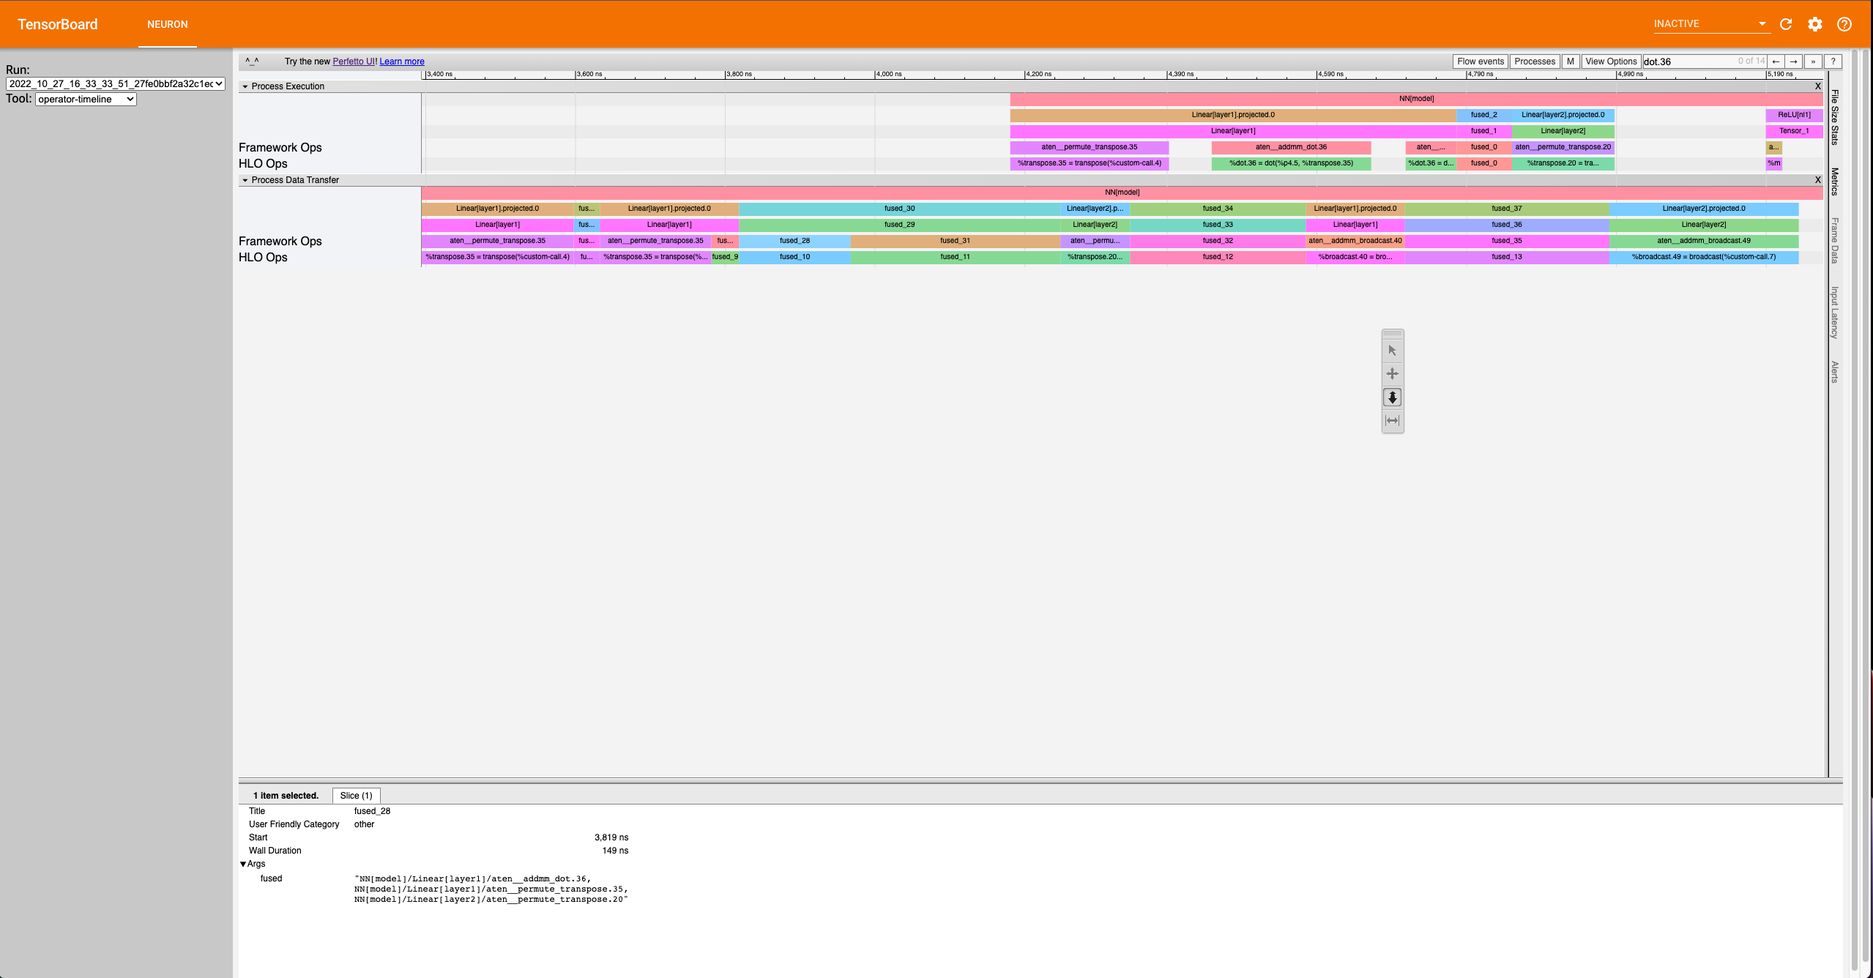
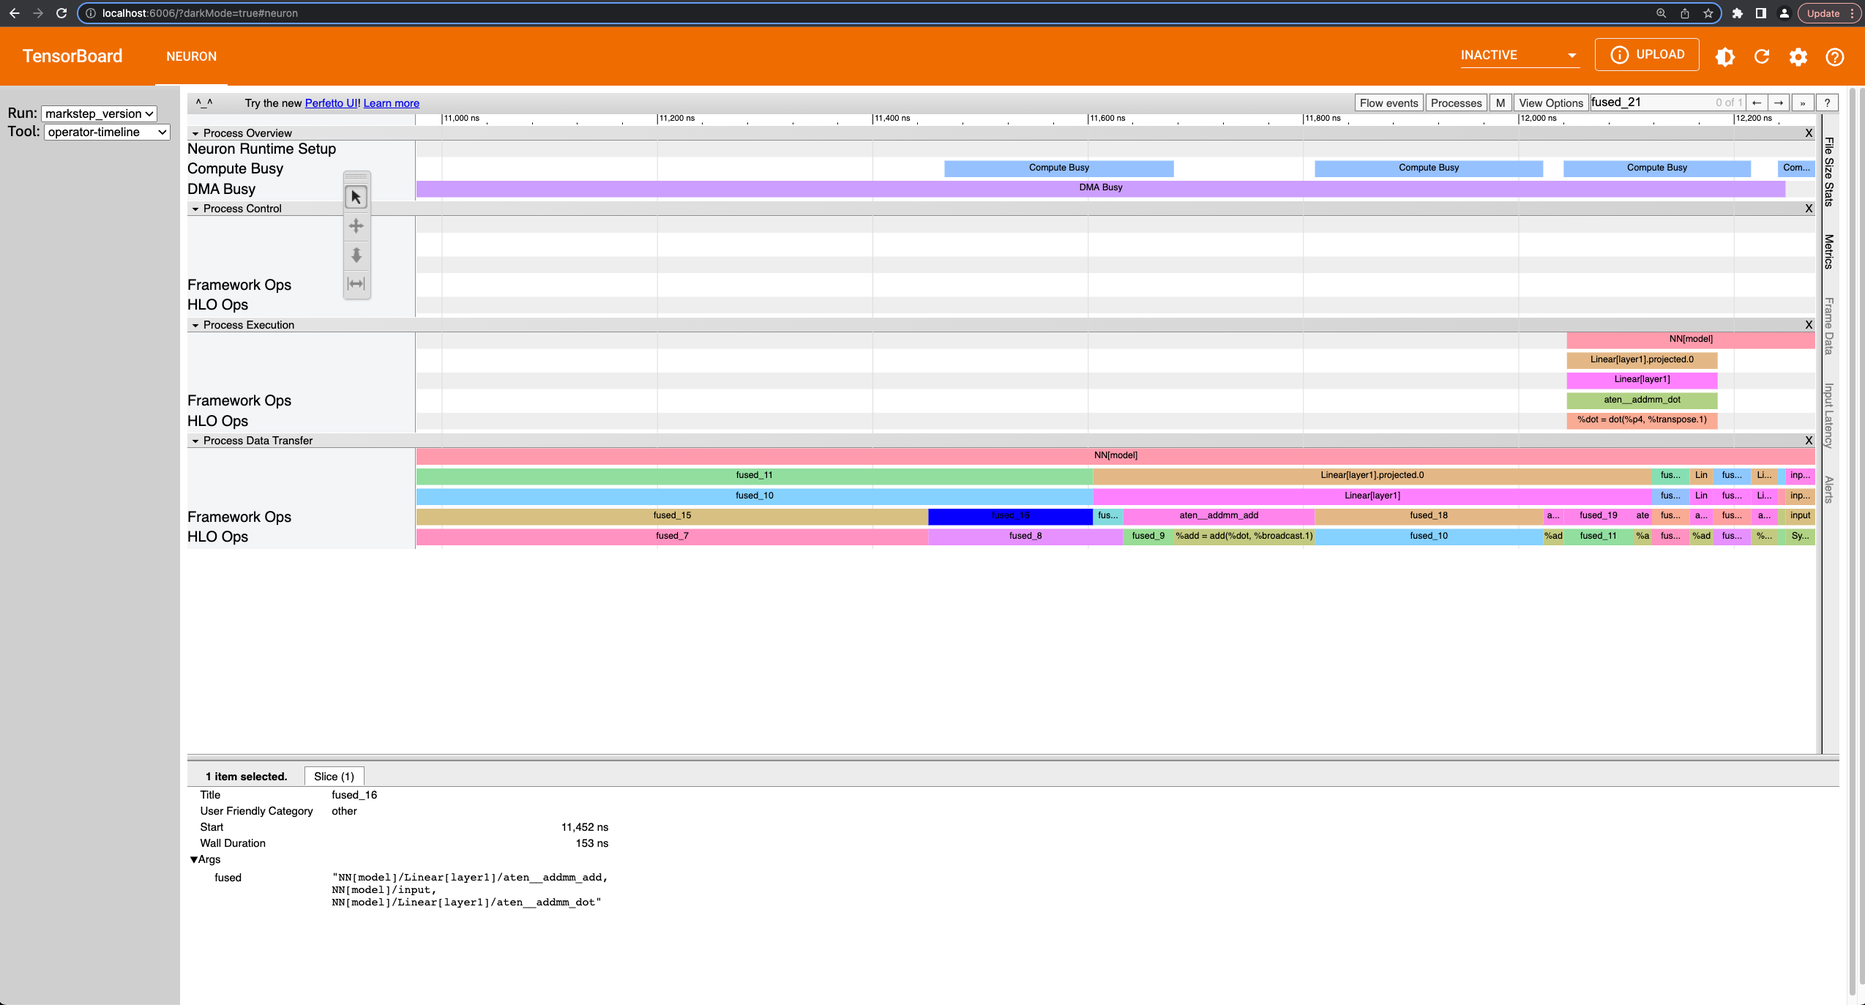
Neuron TensorBoard Profiler update
* Updated Tutorial for Profiling with Tensorboard

---------

diff --git a/tools/tutorials/torch-neuronx-profiling-with-tb.rst b/tools/tutorials/torch-neuronx-profiling-with-tb.rst
@@ -42,7 +42,7 @@ Environment
 
 
 
-Understanding the Operator Level Trace
+Part 1: Operator Level Trace for ``xm.markstep()`` workflow
 --------------------------------------
 
 Goal
@@ -157,49 +157,39 @@ Initial Output & Compilation Success
 
 ::
 
-   2022-10-12 19:02:02.176770: E tensorflow/core/framework/op_kernel.cc:1676] OpKernel ('op: "TPURoundRobin" device_type: "CPU"') for unknown op: TPURoundRobin
-   2022-10-12 19:02:02.177579: E tensorflow/core/framework/op_kernel.cc:1676] OpKernel ('op: "TpuHandleToProtoKey" device_type: "CPU"') for unknown op: TpuHandleToProtoKey
-   torch_neuron: The environment variable 'XLA_IR_DEBUG' is not set! Set this to '1' before your model is compiled to include model information for profiling! Environment variable will be set (and cleared) in this profile scope
-   torch_neuron: The environment variable 'XLA_HLO_DEBUG' is not set! Set this to '1' before your model is compiled to include model information for profiling! Environment variable will be set (and cleared) in this profile scope
-   Starting to trace for 10000 ms. Remaining attempt(s): 2
-   2022-10-12 19:02:02.259487: W tensorflow/core/profiler/lib/profiler_session.cc:105] Profiling is late by 402863 nanoseconds and will start immediately.
-   2022-10-12 19:02:02.259528: W tensorflow/libtpu/profile_manager.cc:310] ProfileManager::start: Environment variable NEURON_PROFILE not set - not enabling Neuron device profiling
-   2022-10-12 19:02:02.259541: W tensorflow/libtpu/profile_manager.cc:316] ProfileManager::start: Environment variable NEURON_PROFILE_TYPE not set - not enabling Neuron device profiling
-   2022-10-12 19:02:02.000325: INFO ||NCC_WRAPPER||: No candidate found under compiler_cache/neuron-compile-cache/USER_neuroncc-2.0.0.4226a0+8bf37708b/MODULE_5452102422278823855.
-   2022-10-12 19:02:02.000325: INFO ||NCC_WRAPPER||: Cache dir for the neff: compiler_cache/neuron-compile-cache/USER_neuroncc-2.0.0.4226a0+8bf37708b/MODULE_5452102422278823855/MODULE_0_SyncTensorsGraph.53_5452102422278823855_ip-172-31-33-242-2131b830-24512-5eadb072703d9/b6c38ec4-f890-4ab9-97e2-e6b7d2d78f65
-   .
-   Compiler status PASS
-   2022-10-12 19:02:05.000196: INFO ||NCC_WRAPPER||: Exiting with a successfully compiled graph
-
-.. note::
-
-   The warnings about the ``XLA_IR_DEBUG`` and ``XLA_HLO_DEBUG``
-   env vars not being set can be ignored for the most part. This warning
-   only comes into play when compiling the model for Neuron outside of the
-   profiler context manager.
+   0%   10   20   30   40   50   60   70   80   90   100%
+   |----|----|----|----|----|----|----|----|----|----|
+   ***************************************************
+   Analyzing dependencies of Block1
+   0%   10   20   30   40   50   60   70   80   90   100%
+   |----|----|----|----|----|----|----|----|----|----|
+   ***************************************************
+   Analyzing dependencies of Block1
+   0%   10   20   30   40   50   60   70   80   90   100%
+   |----|----|----|----|----|----|----|----|----|----|
+   ***************************************************
+   Dependency reduction of sg0000
+   0%   10   20   30   40   50   60   70   80   90   100%``
+   |----|----|----|----|----|----|----|----|----|----|
+   ***************************************************
 
 Processing the Neuron Profiler Traces
 
 ::
 
-   torch_neuron: Waiting for xplane files ...
-   torch_neuron: Decoding xplane files from profiler
+   torch_neuron: Waiting for XLA profile completion ...
    torch_neuron: translate_xplane: Processing plane: '/host:CPU'
-   torch_neuron: XLA decode - Read filename 2022_10_26_18_00_39
-   torch_neuron: XLA decode - Read date parts ['2022', '10', '26', '18', '00', '39']
-   torch_neuron: XLA decode - Read start date 2022-10-26 18:00:39 from directory stamp
-   torch_neuron: translate_xplane: Processing plane: '/host:Neuron-runtime:profile//822ac0425c2b4163_1/model10001/node5/plugins/neuron/1666807250/neuron_op_timeline_split.json'
-   torch_neuron: translate_xplane: Writing plane: '/host:Neuron-runtime:profile//822ac0425c2b4163_1/model10001/node5/plugins/neuron/1666807250/neuron_op_timeline_split.json' to 'temp_profiler_logs/822ac0425c2b4163_1/neuron_op_timeline_split.json'
-   torch_neuron: translate_xplane: Processing plane: '/host:Neuron-runtime:profile//822ac0425c2b4163_1/model10001/node5/plugins/neuron/1666807250/neuron_op_timeline.json'
-   torch_neuron: translate_xplane: Writing plane: '/host:Neuron-runtime:profile//822ac0425c2b4163_1/model10001/node5/plugins/neuron/1666807250/neuron_op_timeline.json' to 'temp_profiler_logs/822ac0425c2b4163_1/neuron_op_timeline.json'
-   torch_neuron: translate_xplane: Processing plane: '/host:Neuron-runtime:profile//822ac0425c2b4163_1/model10001/node5/plugins/neuron/1666807250/neuron_framework_op.json'
-   torch_neuron: translate_xplane: Writing plane: '/host:Neuron-runtime:profile//822ac0425c2b4163_1/model10001/node5/plugins/neuron/1666807250/neuron_framework_op.json' to 'temp_profiler_logs/822ac0425c2b4163_1/neuron_framework_op.json'
-   torch_neuron: translate_xplane: Processing plane: '/host:Neuron-runtime:profile//822ac0425c2b4163_1/model10001/node5/plugins/neuron/1666807250/neuron_hlo_op.json'
-   torch_neuron: translate_xplane: Writing plane: '/host:Neuron-runtime:profile//822ac0425c2b4163_1/model10001/node5/plugins/neuron/1666807250/neuron_hlo_op.json' to 'temp_profiler_logs/822ac0425c2b4163_1/neuron_hlo_op.json'
-   torch_neuron: Trace file: temp_profiler_logs/neuron_trace.json
-   torch_neuron: Translated JSON files: ['temp_profiler_logs/822ac0425c2b4163_1/neuron_op_timeline_split.json', 'temp_profiler_logs/822ac0425c2b4163_1/neuron_op_timeline.json', 'temp_profiler_logs/822ac0425c2b4163_1/neuron_framework_op.json', 'temp_profiler_logs/822ac0425c2b4163_1/neuron_hlo_op.json']
-   torch_neuron: Output processed JSON profiles
-   torch_neuron: Cleaning up temporary files
+   torch_neuron: XLA decode - Read filename 2023_04_28_00_54_04
+   torch_neuron: XLA decode - Read date parts ['2023', '04', '28', '00', '54', '04']
+   torch_neuron: XLA decode - Read start date 2023-04-28 00:54:04 from directory stamp
+   torch_neuron: translate_xplane: Processing plane: '/host:Neuron-runtime:profile//c1a992f0ea378f7a_1/model10001/node5/plugins/neuron/1682643254/neuron_op_timeline_split.json'
+   torch_neuron: translate_xplane: Writing plane: '/host:Neuron-runtime:profile//c1a992f0ea378f7a_1/model10001/node5/plugins/neuron/1682643254/neuron_op_timeline_split.json' to 'temp_profiler_logs/c1a992f0ea378f7a_1/neuron_op_timeline_split.json'
+   torch_neuron: translate_xplane: Processing plane: '/host:Neuron-runtime:profile//c1a992f0ea378f7a_1/model10001/node5/plugins/neuron/1682643254/neuron_op_timeline.json'
+   torch_neuron: translate_xplane: Writing plane: '/host:Neuron-runtime:profile//c1a992f0ea378f7a_1/model10001/node5/plugins/neuron/1682643254/neuron_op_timeline.json' to 'temp_profiler_logs/c1a992f0ea378f7a_1/neuron_op_timeline.json'
+   torch_neuron: translate_xplane: Processing plane: '/host:Neuron-runtime:profile//c1a992f0ea378f7a_1/model10001/node5/plugins/neuron/1682643254/neuron_hlo_op.json'
+   torch_neuron: translate_xplane: Writing plane: '/host:Neuron-runtime:profile//c1a992f0ea378f7a_1/model10001/node5/plugins/neuron/1682643254/neuron_hlo_op.json' to 'temp_profiler_logs/c1a992f0ea378f7a_1/neuron_hlo_op.json'
+   torch_neuron: translate_xplane: Processing plane: '/host:Neuron-runtime:profile//c1a992f0ea378f7a_1/model10001/node5/plugins/neuron/1682643254/neuron_framework_op.json'
+   torch_neuron: translate_xplane: Writing plane: '/host:Neuron-runtime:profile//c1a992f0ea378f7a_1/model10001/node5/plugins/neuron/1682643254/neuron_framework_op.json' to 'temp_profiler_logs/c1a992f0ea378f7a_1/neuron_framework_op.json'
 
 Printing output from CPU model and Trn1 Model:
 
@@ -253,7 +243,7 @@ Operator HLO View
 
 This view contains a pie-chart displaying the
 proportional execution time for each of the model operators on the hlo level for a
-neuron device. The list of operators is shown in the bottom along with
+Neuron device. The list of operators is shown in the bottom along with
 other details about number of occurrences, execution time and neuron
 device and core.
 
@@ -268,12 +258,12 @@ Operator Trace View
 |tensorboard-operator-trace-view|
 
 
-.. _execution-vs-data-transfer:
+.. _trace_view_sections:
 
-Execution vs. Data Transfer
+Trace View Sections
 ^^^^^^^^^^^^^^^^^^^^^^^^^^^
 
-Notice there are two sections: Process Execution and Process Data
+Notice there are four sections: Process Overview, Control, Execution, and Data
 Transfer. In each section there are more subdivisions with each layer
 representing a certain level of abstraction. Also important to note that
 the timescale axis is aligned between the two sections. This is
@@ -293,9 +283,9 @@ dashboard, some information will appear.
 |tensorboard-operator-trace-fusion-simple|
 
 Notice in the above example the fusion operator is fusing the operator before and
-after itself on the timeline. More specifically, ``fused_4`` is a fusion
-of ``NN_1/input`` and
-``NN[model]/Linear[layer1]/aten__permute_transpose.35``. These kinds of
+after itself on the timeline. More specifically, ``fused_3`` is a fusion
+of ``NN[model]/input`` and
+``NN[model]/ReLU[nl1]/Tensor_1/aten__relu_maximum``. These kinds of
 fusions occur when the ``neuronx-cc`` compiler has found an optimization
 relating to the two operators. Most often this would be the execution of
 the operators on separate compute engines or another form of parallelism.
@@ -303,32 +293,15 @@ the operators on separate compute engines or another form of parallelism.
 **Complex Case:** Most often, the order of fusion operators can get a
 little complicated or contain "hidden" information. For the first example,
 let’s zoom into the data transfer section such that we see the timescale range 
-from 3400 ns. to 5190 ns. It should look similar to below:
+from 6000 ns. to 6600 ns. It should look similar to below:
 
 |tensorboard-operator-trace-fusion-complex|
 
-Looking at ``fused_28`` (3819 ns.) we see it's surrounded by other fused operators.
-Furthermore, the ``fused_28`` operator fuses more than two operators. ``NN[model]/Linear[layer1]/aten__addmm_dot.36``,
-``NN[model]/Linear[layer1]/aten__permute_transpose.35``, and ``NN[model]/Linear[layer2]/aten__permute_transpose.20``.
-Looking along the Framework Ops, we will find the transpose operators but not the ``aten__addmm_dot.36`` operator. This can occur
-because there is a complete overlap of operators. In other words, while there is a data load operation happening for
-the transpose operators, a data load operation also occurs for the dot operator.
-
-This also explains how fusion operators can be consecutive. From this, a couple of complexities arise regarding the
-"Start" time of these operators:
-
-1. For operators completely hidden in the trace (except through fusion operators), the profiler won’t give a “Start” time. 
-   All that can be said is that it occurs sometime between the “Start” and “Start”+“Wall Duration” time length of the first 
-   fusion operator it is visible in (``fused_27`` (3782 ns.) for the dot operator). Similarly, the “Wall duration” can’t be determined 
-   exactly since the operator can extend across multiple fusion operators. For instance, looking at ``fused_31`` (3968 ns.) to the 
-   right of ``fused_28``, we see that specific dot operator for the last time.
-
-2. Just like operators would completely be hidden in a series of fusion operators, some operators might start or end singly. 
-   That is to say, they start or end without being parallel with other operators. This is visible when the trace block name 
-   is the operator itself. In these scenarios, the only way to accurately calculate the wall duration of a specific operator 
-   is if it starts singly and ends singly *and* has no fusion operators containing it before the start *or* after the end.
-   If those conditions are met, then the wall duration can be calculated with exact precision. In all other scenarios the true wall
-   duration cannot be accurately determined form the trace, but reasonable estimates can be formed.
+Looking at ``fused_16`` (11452 ns) we see it's surrounded by other fused operators.
+Furthermore, the ``fused_16`` operator fuses more than two operators: ``NN[model]/Linear[layer1]/aten__addmm_add``,
+``NN[model]/input``, and ``NN[model]/Linear[layer1]/aten__addmm_dot``. These operators can be found in the timeline, but sometimes
+the fused operators may not exist in the timeline due to it occurring within another operation. We go over an example of this case
+in Part 2.
 
 
 Understanding the Low Level Timeline
@@ -355,42 +328,29 @@ way we defined the model for this tutorial:
 
 Analysis
 ^^^^^^^^
+**Input Operators:** We see input operators here. This is because in a markstep flow, we need to transfer inputs to the xla device. This is represented by the ``SyncTensorsGraph.53`` call.
 
-**ReLU at the beginning?** The first couple of blocks in the Process Data Transfer section initially appear to be confusing. There is an ``Input`` (0 ns.)
+**ReLU at the beginning:** The first couple of blocks in the Process Data Transfer section initially appear to be confusing. There is an ``Input`` (0 ns.)
 block followed by a ``ReLU`` (100 ns.) operator. Under the hood here, ``ReLU`` is rewritten as an ``elementwise_max(arr,0)``, 
 (0 here means an array with zeros) but to create this operation, the zeros have to be set in memory, which is a data operation.
 A general rule is that if an operator appears this early in the data transfer section, it most likely means there is an operation
 lowering involving setting some values into memory for use later on.
 
 **Memory allocation for Linear[layer1]:** We resume with the data transfer operations. Here, memory is getting allocated for specific operators, and sometimes the allocated
-inputs get loaded onto operators while the rest of the input gets allocated. This can be seen at ``fused_4`` (1333 ns.) and ``fused_8`` (2078 ns.).
+inputs get loaded onto operators while the rest of the input gets allocated. This can be seen at ``fused_18`` (11811 ns.) and ``fused_23`` (12181 ns.).
 Eventually the input gets fully allocated, and other allocations occur for dot products, transpose, and broadcast operators for
 ``Linear[layer1]`` and ``Linear[layer2]``.
-
-**Linear[layer2] transpose before ReLU on compute?** Notice that as the Data Transfer Operations for ``Linear[layer2]`` start the computation (i.e Process Execution) for the ``Linear[layer1]`` 
-operators start. Analyzing the Process Execution trace for the ``Linear[layer1]``, we see an unusual ordering towards the end. We see a
-transpose for ``Linear[layer2]`` occur before the ``ReLU`` activation function. This occurs because performing the transpose first would
-optimize the calculation of the ``Linear[layer2]`` dot faster. Since ``ReLU`` must be calculated before the dot product, ``ReLU`` follows.
-This is a quirk of the architecture of trn1.
-
-**Tanh before Linear[layer2] dot?** The next step is the dot for ``Linear[layer2]``, but we notice that some ``Tanh`` operators appear before the dot operator. This can be
-explained by the implementation of ``Tanh`` in the trn1 architecture/runtime. Simply put, ``Tanh`` utilizes a lookup table, and performs
-interpolation on that table for error minimization. Pre-computation of the lookup table can occur before and during the dot operation.
-We see this in the ``fused_12`` (5611 ns.) operator. After the dot operator, the ``Tanh`` operator comes again, which would correspond to the
-actual activation. We see some final data transfer operations, which have to do with output transfer from the Neuron device to host.
 
 Conclusion
 ^^^^^^^^
 
 There are a few conclusions that can be determined from analyzing the timeline. We can see that we’ve been able to save a bit of time due to 
-parallelism between computing ``Linear[layer1]`` and allocating memory for ``Linear[2]`` operations. There was also time saved with the parallelism
-of ``Tanh`` and the dot operators for ``Linear[2]``. Another clear trend is that a majority of the time (about 83%) is spent on data transfer operations.
-It is also evident that even a simple Feed Forward NN becomes complicated when put under a microscope in the profiler. Facts such as the lowering
-of ``ReLU`` to an ``elementwise_maximum`` and implementation of ``Tanh`` in the runtime/architecture, aren’t explicitly stated in the profiler, but do make
-themselves known by the unusual ordering placement of the trace blocks.
+parallelism with fusion operations, and saving some compute time with preloading operations (ex. ``ReLU``). A clear trend is that a majority of the time is spent on data transfer operations.
+It is also evident that even a simple Feed Forward NN becomes complicated when put under a microscope in the profiler. Facts such as the implementation of ``ReLU`` in the runtime/architecture, aren’t explicitly stated in the profiler, but do make
+themselves known by the unusual ordering placement of the trace blocks and unusual fusion operators.
 
 In terms of action items that can be taken based on our narrative, there
-really isn’t any. This is a very very simple model that outputs after 6
+really isn’t any. This is a very very simple model that outputs after 8
 microseconds, and we chose it because it is simple to understand. In
 more realistic examples we will aim to do more compute than data
 transfer on the hardware, and where possible to overlap data transfer
@@ -399,9 +359,6 @@ and compute between sequential operations.
 The profiler revealed a lot of optimizations that were done, via fusion
 operators and parallelism. However, the end goal of this tool is to be
 able to improve performance by revealing the bottlenecks of the model.
-In the next couple of tutorials, we will go over a more practical example
-where the profiler will reveal a bottleneck and we address it and visualize the
-improved performance using the trace and operator profile types.
 
 .. note::
 
@@ -409,7 +366,110 @@ improved performance using the trace and operator profile types.
    to do so for normal use. This tutorial introduced the microscopic explanation for these occurrences to show to the 
    user that this is *indeed* what happens in the hardware when executing a simple FFNN.
 
+Part 2: Operator Level Trace with ``torch_neuronx.trace()`` workflow
+--------------------------------------
 
+Set Up
+~~~~~~
+
+The setup will be similar to Part 1.
+::
+
+   cd ~/neuron_profiling_tensorboard_examples
+   mkdir tutorial_2
+   cd tutorial_2
+
+   # this is where our code will be written
+   touch run.py
+
+Here is the code for ``run.py``:
+
+::
+
+   import os
+   import time
+   import torch
+   import torch_neuronx
+   from torch_neuronx.experimental import profiler
+
+   class NN(torch.nn.Module):
+      def __init__(self):
+         super().__init__()
+
+         self.layer1 = torch.nn.Linear(4,4)
+         self.nl1 = torch.nn.ReLU()
+         self.layer2 = torch.nn.Linear(4,2)
+         self.nl2 = torch.nn.Tanh()
+
+      def forward(self, x):
+         x = self.nl1(self.layer1(x))
+         return self.nl2(self.layer2(x))
+
+   model = NN()
+   model.eval()
+
+   inp = torch.rand(4,4)
+
+   output = model(inp)
+
+   with torch_neuronx.experimental.profiler.profile(
+      port=9012,
+      profile_type='operator',
+      ms_duration=10000,
+      traced_only=True):
+
+      neuron_model = torch_neuronx.trace(model,inp,compiler_workdir="./compiler_cache")
+      neuron_model(inp)
+
+   print("==CPU OUTPUT==")
+   print(output)
+   print()
+   print("==INF2 OUTPUT==")
+   print(output_neuron)
+
+Important code differences from Part 1
+~~~~~~
+
+1. ``import torch_xla.core.xla_model as xm`` is no longer necessary
+2. Set ``traced_only=True`` in ``torch_neuronx.experimental.profiler.profile()``. This option is necessary for traced models, otherwise the generated profile will not be accurate or not work.
+3. Tracing the model with ``torch_neuronx.trace()`` and removing ``xm.markstep()``.
+
+Otherwise, the code is the same as Part 1.
+
+Running Part 2
+~~~~~~~
+To Run:
+::
+
+   python run.py
+
+The output will look almost identical as Part 1
+
+Loading the Operators Level Trace in TensorBoard
+~~~~~~~~~~~~~~~~~~~~~~~~~~~~~~~~~~~~~~~~~~~~~~~
+
+Run ``tensorboard --load_fast=false --logdir logs/``, just like Part 1.
+
+.. note::
+
+   Check :ref:`Tensorboard Interface Overview` to understand TensorBoard interface
+
+Timeline View:
+
+|tensorboard-operator-trace-view-traced|
+
+Notable Differences in Timeline View from Part 1:
+~~~~~~
+
+**No Input Operators:** For a traced model, we do not transfer the input to an xla device, so these operations are not seen on the timeline. This also affects scheduling, which is why the time taken in
+the profiling is less than the markstep one.
+
+**Combined Loading of Linear[layer1] and Tanh:** ``fused_19`` (5824 ns) contains a fusion between ``Linear[layer1]`` and ``Tanh[nl2]``. This might be a bit odd, but such data loading parallelism
+can be understood by understanding how tanh is implemented. Typically, functions like tanh are implemented by lookup tables that require being pre-loaded onto memory, which is a data transfer operation.
+A bulk of data transfer operations are done in the beginning to optimize computations.
+
+.. note::
+   Despite these differences, the big picture conclusion drawn from Part 1 still holds, as the two timelines are more similar than different. Some new insights drawn is that the traced model performs better than the markstep flow, since this was profiling a single forward pass.
 
 
 .. |tensorboard-url-image| image:: /images/Neuron_Profiler_Tensorboard_Url.jpg
@@ -433,6 +493,8 @@ improved performance using the trace and operator profile types.
 .. |tensorboard-operator-hlo-view| image:: /images/Neuron_Profiler_T1_Op_HLO_View.png
 
 .. |tensorboard-operator-trace-view| image:: /images/Neuron_Profiler_T1_Op_Trace_View.png
+
+.. |tensorboard-operator-trace-view-traced| image:: /images/Neuron_Profiler_T1_Op_Trace_View_Traced.png
 
 .. |tensorboard-operator-trace-fusion-simple| image:: /images/Neuron_Profiler_T1_Op_Trace_Fusion_Simple.png
 

diff --git a/frameworks/torch/torch-neuronx/api-reference-guide/torch-neuronx-profiling-api.rst b/frameworks/torch/torch-neuronx/api-reference-guide/torch-neuronx-profiling-api.rst
@@ -38,7 +38,9 @@ trace events at the operator or runtime level.
       If set to false, the profiler can be set to start at a later condition.
       Refer to ``profile.start()`` for more details. Default is ``True``.
    :keyword bool delete_working: If set to False turns off the deletion of temporary files. Default True.
-
+   :keyword str traced_only: This should be set to ``True`` if profiling a model that has been traced with
+      ``torch_neuronx.trace()``. Default is ``False``.
+      
    :returns: The traced :class:`profile`
 
    :rtype: ~profile
